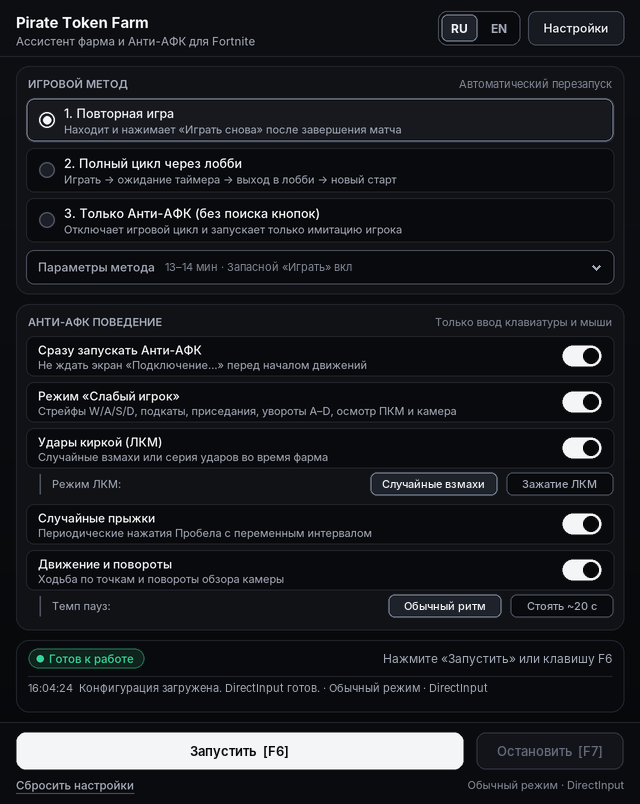
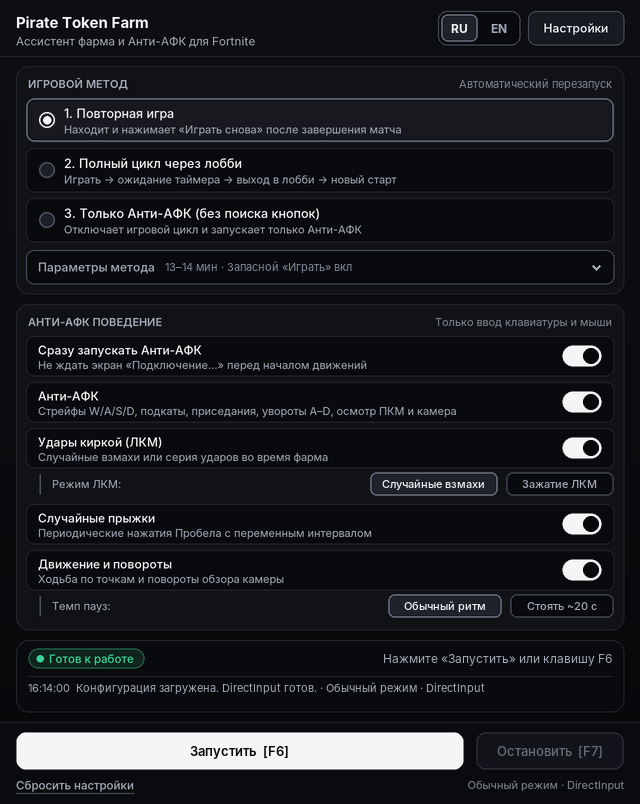
chore: rename Anti-AFK mode labels cleanly across UI, docs, and preview screenshots

Changed region(s): [[0.0625, 0.8396, 0.75, 0.8706], [0.0625, 0.4664, 0.2812, 0.4975], [0.4688, 0.2799, 0.625, 0.3109]]

diff --git a/docs/index.html b/docs/index.html
@@ -715,7 +715,7 @@
           <div class="trust-strip">
             <div class="trust-item">
               <div class="trust-val">0% CPU</div>
-              <div class="trust-lbl" data-i18n="stat_cpu">В простое, 30 автотестов</div>
+              <div class="trust-lbl" data-i18n="stat_cpu">В простое, 34 автотеста</div>
             </div>
             <div class="trust-item">
               <div class="trust-val">DirectInput</div>
@@ -778,8 +778,8 @@
     <section class="section" id="antiafk">
       <div class="container">
         <div class="section-head">
-          <div class="section-kicker" data-i18n="sec_afk_k">РЕЖИМ «СЛАБЫЙ ИГРОК»</div>
-          <h2 data-i18n="sec_afk_t">Набор действий для имитации игры</h2>
+          <div class="section-kicker" data-i18n="sec_afk_k">АНТИ-АФК</div>
+          <h2 data-i18n="sec_afk_t">Набор действий Анти-АФК</h2>
           <p class="section-sub" data-i18n="sec_afk_s">
             Вместо зажатия одной клавиши по таймеру скрипт перемешивает движения, прыжки и повороты камеры со случайными паузами.
           </p>
@@ -916,8 +916,8 @@ python tests\test_pirate_farm.py</pre>
         m3_badge: "Метод 3",
         m3_t: "Только Анти-АФК",
         m3_d: "Отключает захват экрана и OpenCV, остаётся только движение в Анти-АФК. Удобно для долгих творческих карт и LEGO.",
-        sec_afk_k: "РЕЖИМ «СЛАБЫЙ ИГРОК»",
-        sec_afk_t: "Набор действий для имитации игры",
+        sec_afk_k: "АНТИ-АФК",
+        sec_afk_t: "Набор действий Анти-АФК",
         sec_afk_s: "Вместо зажатия одной клавиши по таймеру скрипт перемешивает движения, прыжки и повороты камеры со случайными паузами.",
         a1_t: "Подкаты и прыжок из подката",
         a1_d: "Разгон на спринте W + Shift, подкат Ctrl со смещением камеры и выход через Space со стрейфом или полный докат.",
@@ -989,8 +989,8 @@ python tests\test_pirate_farm.py</pre>
         m3_badge: "Method 3",
         m3_t: "Anti-AFK Only",
         m3_d: "Turns off screen capture and OpenCV, leaving only Anti-AFK movement running for Creative and LEGO maps.",
-        sec_afk_k: "CASUAL PLAYER MODE",
-        sec_afk_t: "Varied movement and actions",
+        sec_afk_k: "ANTI-AFK",
+        sec_afk_t: "Varied Anti-AFK actions",
         sec_afk_s: "Instead of holding one key on a fixed timer, the script mixes strafes, slides, jumps, and camera turns with random pauses.",
         a1_t: "Sprint-Slides & Slide-Hops",
         a1_d: "Sprints (W + Shift), slides (Ctrl) with curved camera sweeps, and exits via Space slide-hop or full slide settle.",

diff --git a/fortnite_farm.py b/fortnite_farm.py
@@ -399,7 +399,7 @@ TEXT = {
         "m2_title": "2. Полный цикл через лобби",
         "m2_desc": "Играть → ожидание таймера → выход в лобби → новый старт",
         "m0_title": "3. Только Анти-АФК (без поиска кнопок)",
-        "m0_desc": "Отключает игровой цикл и запускает только имитацию игрока",
+        "m0_desc": "Отключает игровой цикл и запускает только Анти-АФК",
         "params_title": "Параметры метода",
         "delay_title": "Таймер цикла (Метод 2)",
         "delay_desc": "Случайная пауза перед выходом в лобби, в минутах",
@@ -409,7 +409,7 @@ TEXT = {
         "afk_safety": "Только ввод клавиатуры и мыши",
         "imm_title": "Сразу запускать Анти-АФК",
         "imm_desc": "Не ждать экран «Подключение…» перед началом движений",
-        "human_title": "Режим «Слабый игрок»",
+        "human_title": "Анти-АФК",
         "human_desc": "Стрейфы W/A/S/D, подкаты, приседания, увороты A–D, осмотр ПКМ и камера",
         "swing_title": "Удары киркой (ЛКМ)",
         "swing_desc": "Случайные взмахи или серия ударов во время фарма",
@@ -447,7 +447,7 @@ TEXT = {
         "dt_slide_jump": "Подкат с прыжком",
         "dt_wiggle": "Уворот стрейфами A–D",
         "dt_rmb_peek": "Короткий осмотр (ПКМ)",
-        "dt_strafe": "Слабый игрок: {keys}",
+        "dt_strafe": "Анти-АФК: {keys}",
         "dt_walk_go": "Ходьба вперёд",
         "dt_walk_stand": "Пауза ~20 с на месте",
         "dt_walk_turn": "Разворот камеры ~180°",
@@ -485,7 +485,7 @@ TEXT = {
         "fb_on": "Запасной «Играть» вкл",
         "fb_off": "Запасной «Играть» выкл",
         "err_notfound": "Не найден шаблон в папке templates/: ",
-        "err_afk_req": "Включите хотя бы одну опцию Анти-АФК (кирка, прыжок, движение или «Слабый игрок»).",
+        "err_afk_req": "Включите хотя бы одну опцию в разделе Анти-АФК.",
         "err_key_same": "Эта клавиша уже назначена для другого действия.",
         "err_key_res": "Нельзя назначить игровую клавишу (W/A/S/D/Space/Shift/Ctrl/Esc/E).",
         "log_key_set": "Назначена горячая клавиша: ",
@@ -504,7 +504,7 @@ TEXT = {
         "m2_title": "2. Full lobby cycle",
         "m2_desc": "Play → wait timer → return to lobby → start again",
         "m0_title": "3. Anti-AFK only (skip menu loop)",
-        "m0_desc": "Disables queue automation and runs player movement only",
+        "m0_desc": "Disables queue automation and runs Anti-AFK movement only",
         "params_title": "Method parameters",
         "delay_title": "Cycle timer (Method 2)",
         "delay_desc": "Random delay before returning to the lobby, in minutes",
@@ -514,7 +514,7 @@ TEXT = {
         "afk_safety": "Keyboard & mouse input only",
         "imm_title": "Start Anti-AFK immediately",
         "imm_desc": "Begin movement right away without waiting for Connecting…",
-        "human_title": "Casual Player mode",
+        "human_title": "Anti-AFK",
         "human_desc": "W/A/S/D strafes, sprint-slides, crouch-peeks, AD wiggles & camera look",
         "swing_title": "Pickaxe swings (LMB)",
         "swing_desc": "Random pickaxe swings or short combos during farming",
@@ -552,7 +552,7 @@ TEXT = {
         "dt_slide_jump": "Slide-hop combo",
         "dt_wiggle": "AD dodge wiggle",
         "dt_rmb_peek": "Brief ADS peek (RMB)",
-        "dt_strafe": "Casual move: {keys}",
+        "dt_strafe": "Anti-AFK: {keys}",
         "dt_walk_go": "Walking forward",
         "dt_walk_stand": "Pausing ~20 s",
         "dt_walk_turn": "Turning ~180°",
@@ -590,7 +590,7 @@ TEXT = {
         "fb_on": "Fallback Play on",
         "fb_off": "Fallback Play off",
         "err_notfound": "Missing template inside templates/: ",
-        "err_afk_req": "Enable at least one Anti-AFK option (Pickaxe, Jump, Movement or Casual Player).",
+        "err_afk_req": "Enable at least one option in the Anti-AFK section.",
         "err_key_same": "That hotkey is already assigned to the other action.",
         "err_key_res": "Cannot bind a gameplay movement key (W/A/S/D/Space/Shift/Ctrl/Esc/E).",
         "log_key_set": "Assigned hotkey: ",
@@ -881,13 +881,13 @@ class Engine:
         if self._can_act():
             ok = self.smooth_mouse_move(total_dx, total_dy, duration=dur)
             if ok and big_turn and random.random() < 0.40 and self.anti_sleep(random.uniform(0.08, 0.20)):
-                # Casual shoulder check: partial return glance toward original heading
+                # Shoulder check: partial return glance toward original heading
                 ret_dx = -int(round(total_dx * random.uniform(0.55, 0.85)))
                 ret_dy = int(clamp(-self.pitch_acc * 0.3 + random.randint(-22, 22), -55, 55))
                 self.smooth_mouse_move(ret_dx, ret_dy, duration=random.uniform(0.20, 0.34))
 
     def do_jump_swing(self) -> None:
-        """Casual mid-air jump + aim flick + pickaxe swing combo."""
+        """Mid-air jump + aim flick + pickaxe swing combo."""
         if self.mouse_down or self.app.live("mouse") or not self._can_act():
             return
         self.app.emit("detail", {"key": "dt_jump_swing"})
@@ -1274,7 +1274,7 @@ class Engine:
                                 self.tap_key("space", hold_s=random.uniform(0.055, 0.10))
                         self.next_space = time.monotonic() + self._next_rhythm_delay(2.4, 10.5)
 
-                    # 3. Casual Player camera look, micro-drift & non-periodic tactical maneuvers
+                    # 3. Anti-AFK camera look, micro-drift & non-periodic tactical maneuvers
                     if use_human:
                         now = time.monotonic()
                         is_standing = (wstate == "stand")

diff --git a/tests/test_pirate_farm.py b/tests/test_pirate_farm.py
@@ -284,12 +284,16 @@ class TestAppAndUI(unittest.TestCase):
             ru_val = ff.TEXT["ru"][k]
             en_val = ff.TEXT["en"][k]
             self.assertTrue(ru_val and en_val, f"Empty string for key {k}")
+            self.assertNotIn("слаб", ru_val.lower(), f"Unexpected legacy phrase in ru[{k}]")
+            self.assertNotIn("casual", en_val.lower(), f"Unexpected legacy phrase in en[{k}]")
             if "{m}" in ru_val or "{m}" in en_val:
                 self.assertEqual(ru_val.format(m=5)[:0], "")
                 self.assertEqual(en_val.format(m=5)[:0], "")
             if "{keys}" in ru_val or "{keys}" in en_val:
                 self.assertEqual(ru_val.format(keys="W+A")[:0], "")
                 self.assertEqual(en_val.format(keys="W+A")[:0], "")
+        self.assertEqual(ff.TEXT["ru"]["human_title"], "Анти-АФК")
+        self.assertEqual(ff.TEXT["en"]["human_title"], "Anti-AFK")
 
     def test_saved_anim_setting_preserved_when_system_reduced_motion_enabled(self):
         self.tmp_cfg.write_text(json.dumps({"anim": True}), encoding="utf-8")
@@ -707,8 +711,8 @@ class TestEngineConcurrencyAndMechanics(unittest.TestCase):
             if self.engine.anti_thread is not None:
                 self.assertFalse(self.engine.anti_thread.is_alive())
 
-    def test_casual_player_strafes_with_walk_disabled(self):
-        # User's saved config has human=True and walk=False: Casual Player must still strafe WASD
+    def test_anti_afk_strafes_with_walk_disabled(self):
+        # User's saved config has human=True and walk=False: Anti-AFK must still strafe WASD
         self.app.set_cfg("method", 0)
         self.app.set_cfg("immediate", True)
         self.app.set_cfg("human", True)

diff --git a/README.md b/README.md
@@ -33,7 +33,7 @@
 2. **Полный цикл через лобби.** Запускает матч, ждёт случайное время в заданном диапазоне (по умолчанию 8-10 минут, можно выставить до 180), открывает меню, выходит в лобби и заходит заново.
 3. **Только Анти-АФК.** Отключает захват экрана и поиск шаблонов, работает только движение персонажа.
 
-### Анти-АФК (режим «Слабый игрок»)
+### Анти-АФК
 
 Вместо зажатия одной клавиши по таймеру скрипт перемешивает разные действия и меняет паузы между ними:
 
